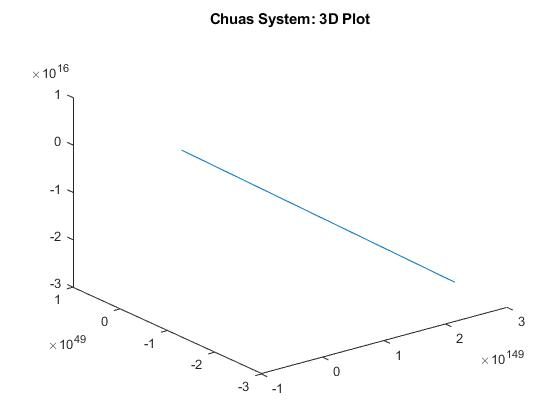
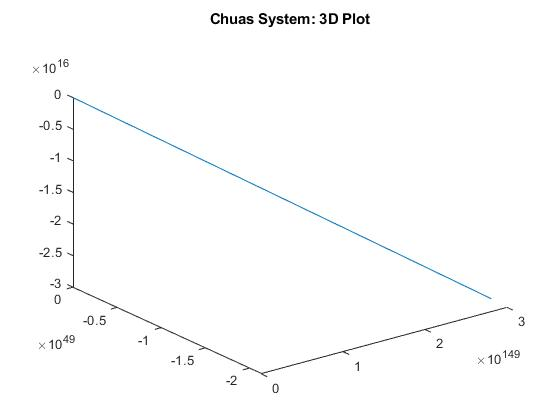
Fixing p12 and PECE simulation for the midterm

diff --git a/p12/p12.m b/p12/p12.m
@@ -36,9 +36,9 @@ for k = 1:N
     yp(k+1) = yc(k)+T*fyc(k);
     zp(k+1) = zc(k)+T*fzc(k);
     % Evaluate for correction %
-    fxp(k) = alpha*(yp(k)+((xp(k)-2*(xp(k)).^3)/(7)));
-    fyp(k) = xp(k)-yp(k)+zp(k);
-    fzp(k) = -(100/7)*yp(k);
+    fxp(k+1) = alpha*(yp(k+1)+((xp(k+1)-2*(xp(k+1)).^3)/(7)));
+    fyp(k+1) = xp(k+1)-yp(k+1)+zp(k+1);
+    fzp(k+1) = -(100/7)*yp(k+1);
     % Correct %
     xc(k+1) = xc(k)+T*fxp(k);
     yc(k+1) = yc(k)+T*fyp(k);

diff --git a/Midterm/p6.m b/Midterm/p6.m
@@ -39,9 +39,9 @@ for k = 1:N-1
     x2p(k+1) = x2c(k)+T*fx2c(k);
     x3p(k+1) = x3c(k)+T*fx3c(k);
     % Evaluate for correction %
-    fx1p(k) = -6.5*x1p(k)-14.4*x2p(k)-12*x3p(k)+u(k);
-    fx2c(k) = x1p(k);
-    fx3c(k) = x2p(k);
+    fx1p(k+1) = -6.5*x1p(k+1)-14.4*x2p(k+1)-12*x3p(k+1)+u(k+1);
+    fx2c(k+1) = x1p(k+1);
+    fx3c(k+1) = x2p(k+1);
     % Correct %
     x1c(k+1) = x1c(k)+T*fx1p(k);
     x2c(k+1) = x2c(k)+T*fx2p(k);
